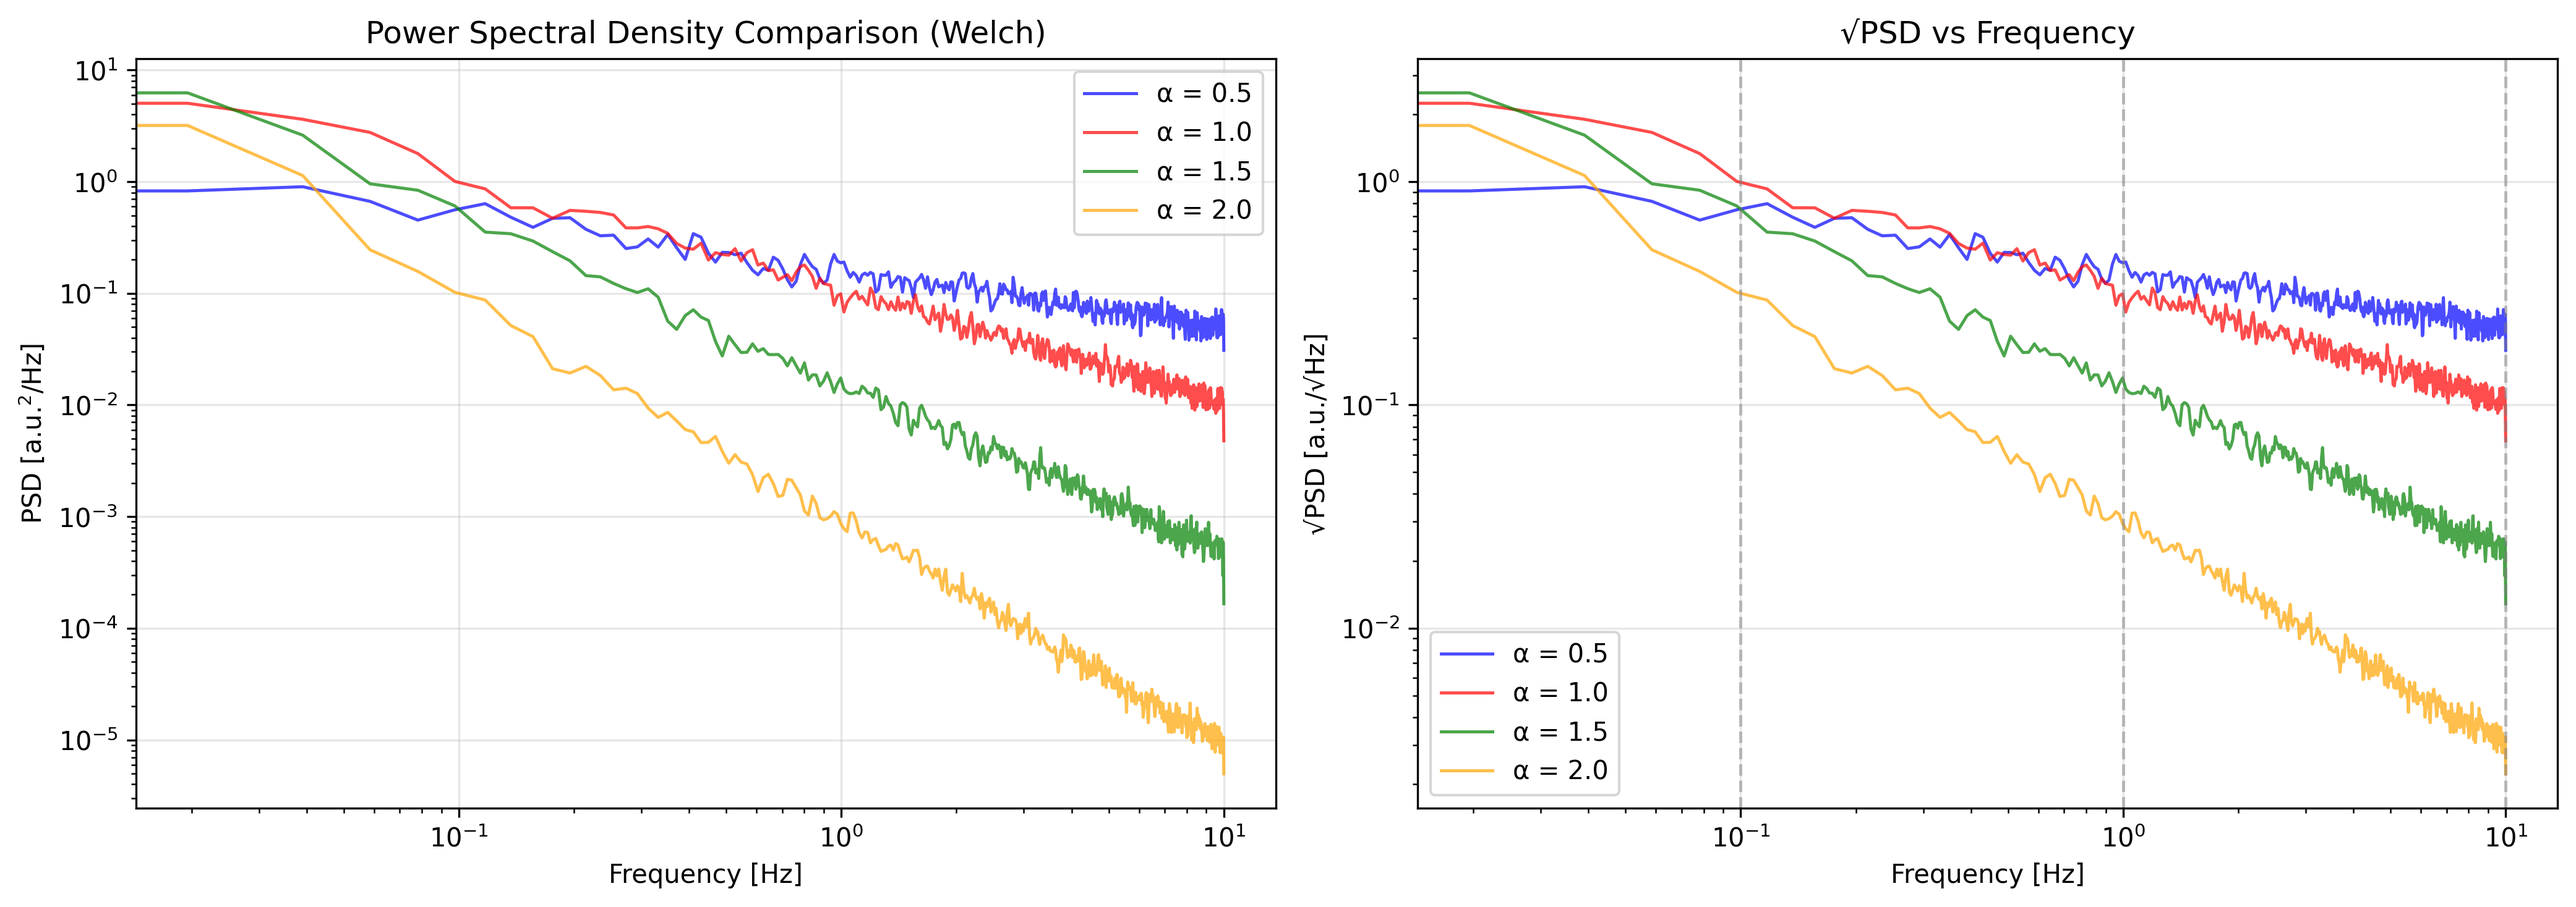
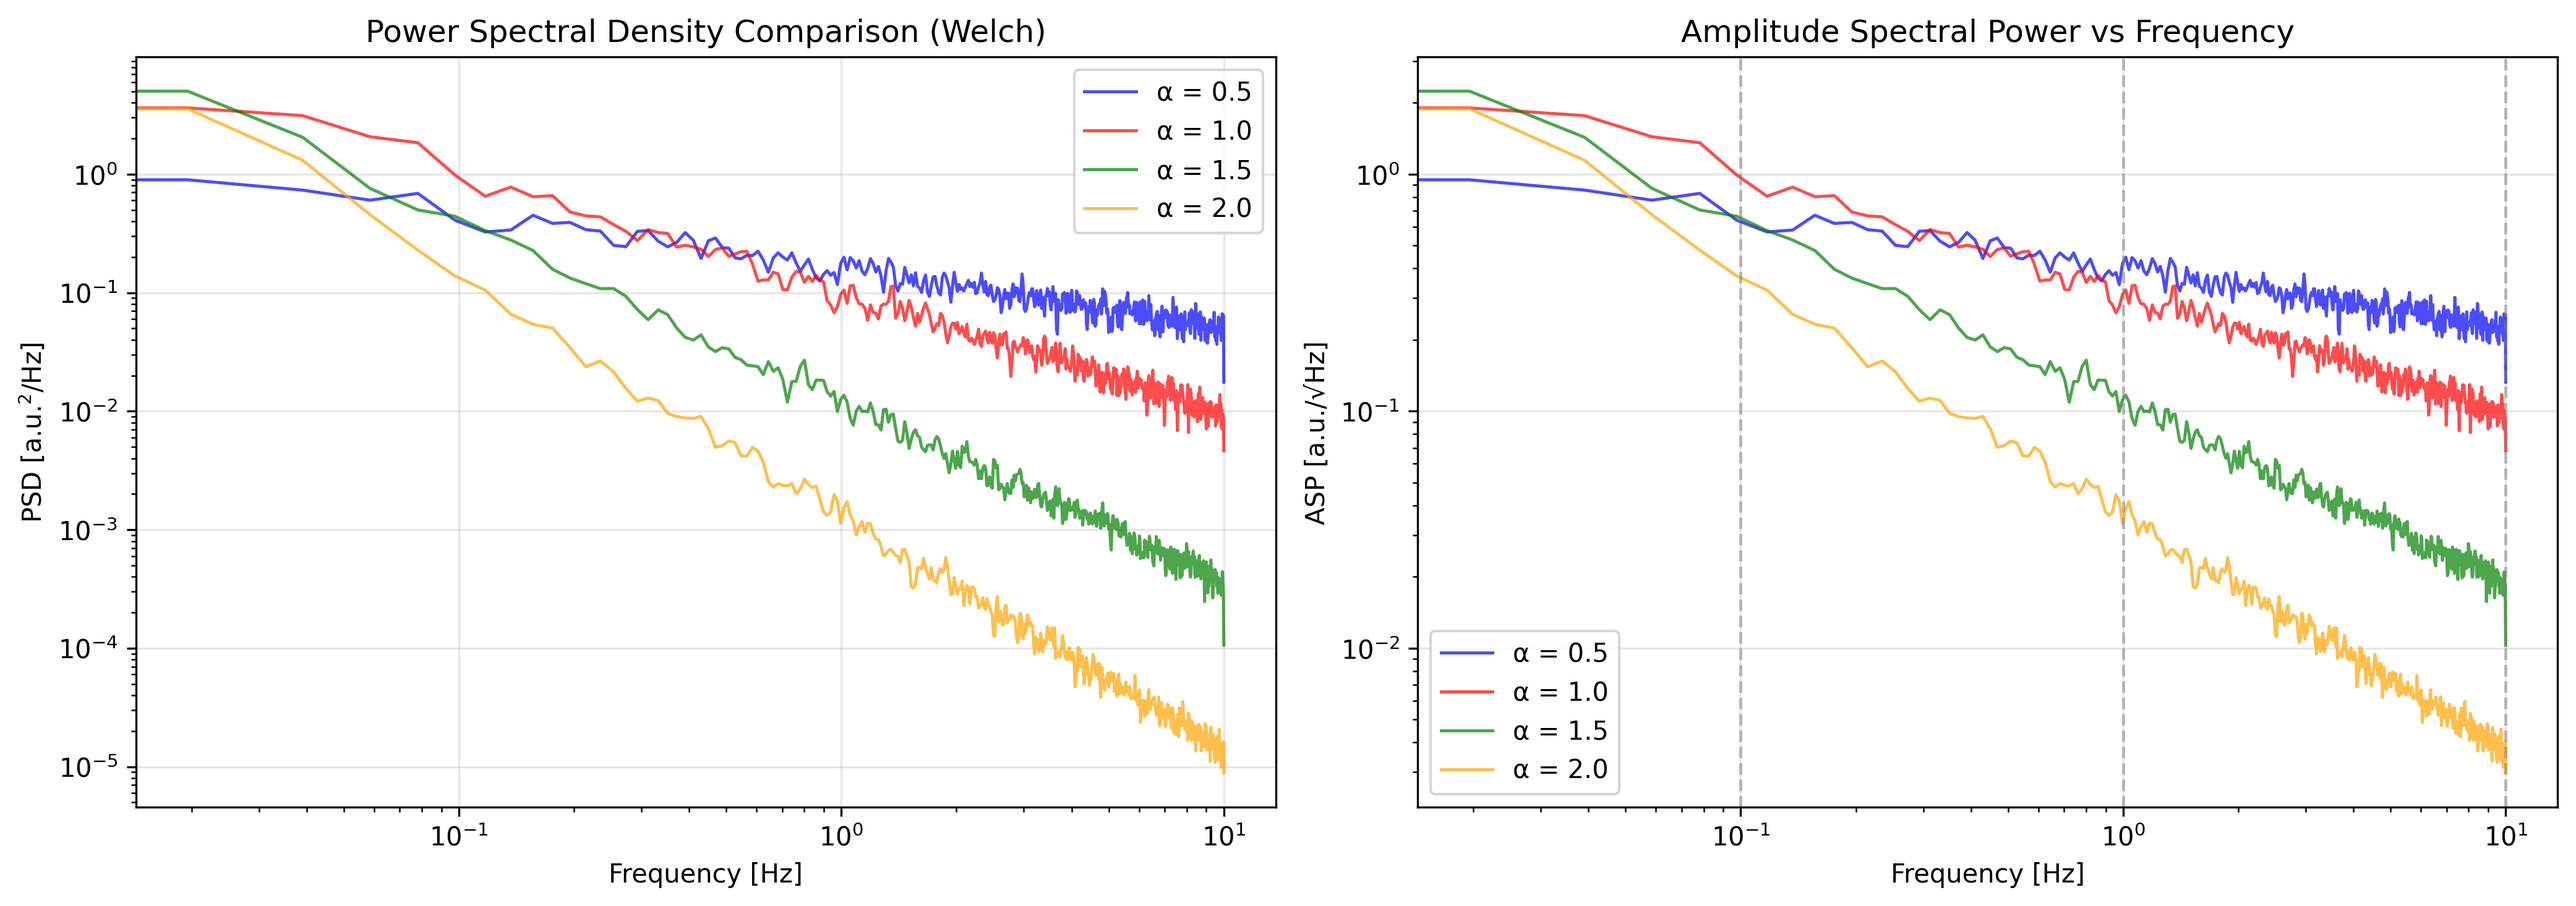
Update spectrum plot labels and figures
Changed y-axis label and title in plot_spectrum_analysis to use 'Amplitude Spectral Power' instead of '√PSD'. Updated related figure images to reflect these changes.

diff --git a/pink_noise_simulation/pink_noise_analysis.py b/pink_noise_simulation/pink_noise_analysis.py
@@ -140,14 +140,13 @@ def plot_spectrum_analysis(frequencies, psds, alphas, method="Welch"):
         color = colors[i % len(colors)]
         axes[1].loglog(freq, np.sqrt(psd), color=color, alpha=0.7, 
                           linewidth=1.2, label=f'α = {alpha}')
-    
 
     for x in [0.1, 1, 10]:
         axes[1].axvline(x=x, color='gray', linestyle='--', linewidth=1.2, alpha=0.5)
 
     axes[1].set_xlabel('Frequency [Hz]')
-    axes[1].set_ylabel(r'√PSD [a.u./√Hz]')
-    axes[1].set_title('√PSD vs Frequency')
+    axes[1].set_ylabel(r'ASP [a.u./√Hz]')
+    axes[1].set_title('Amplitude Spectral Power vs Frequency')
     axes[1].legend()
     axes[1].grid(True, alpha=0.3)
     
